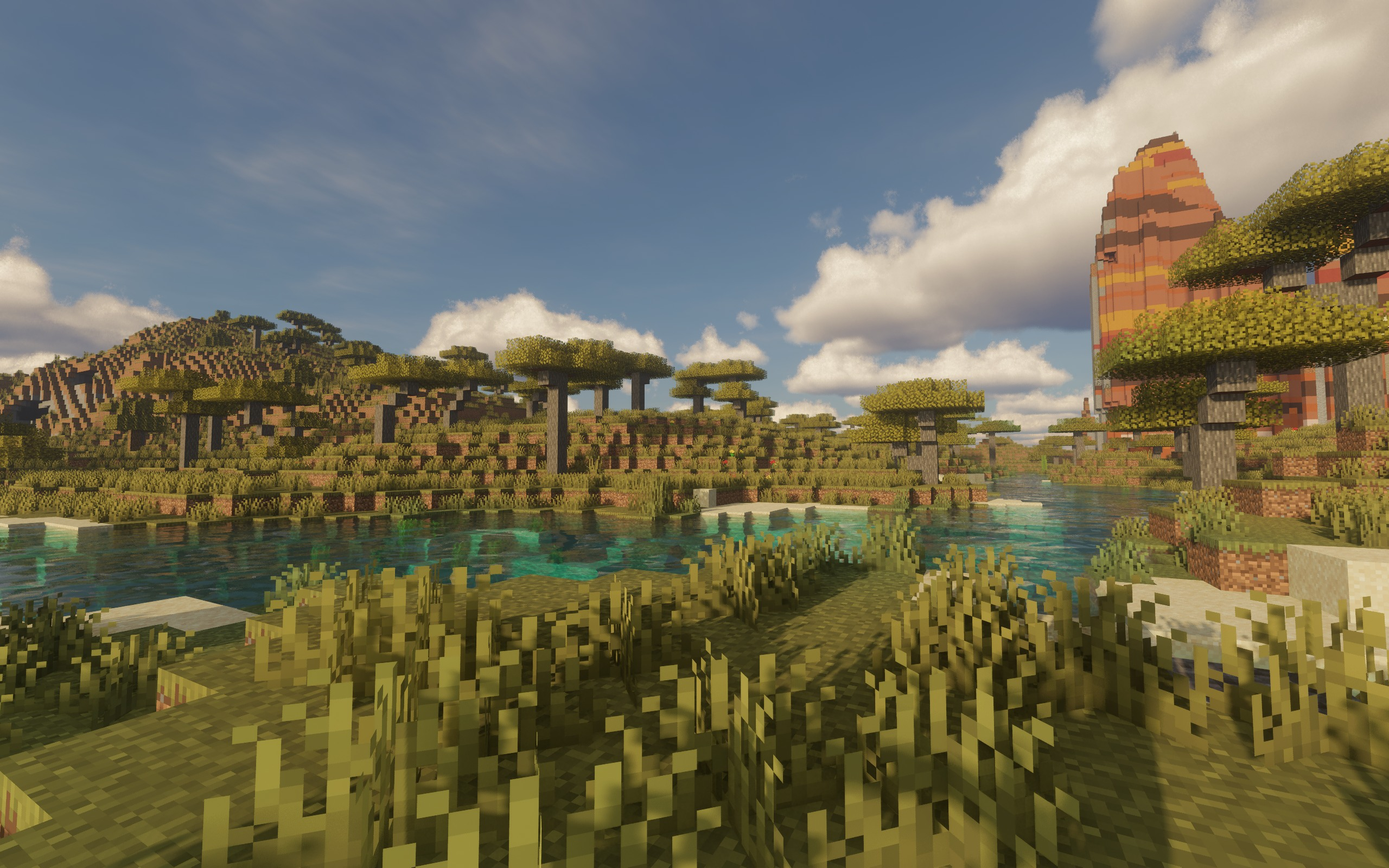
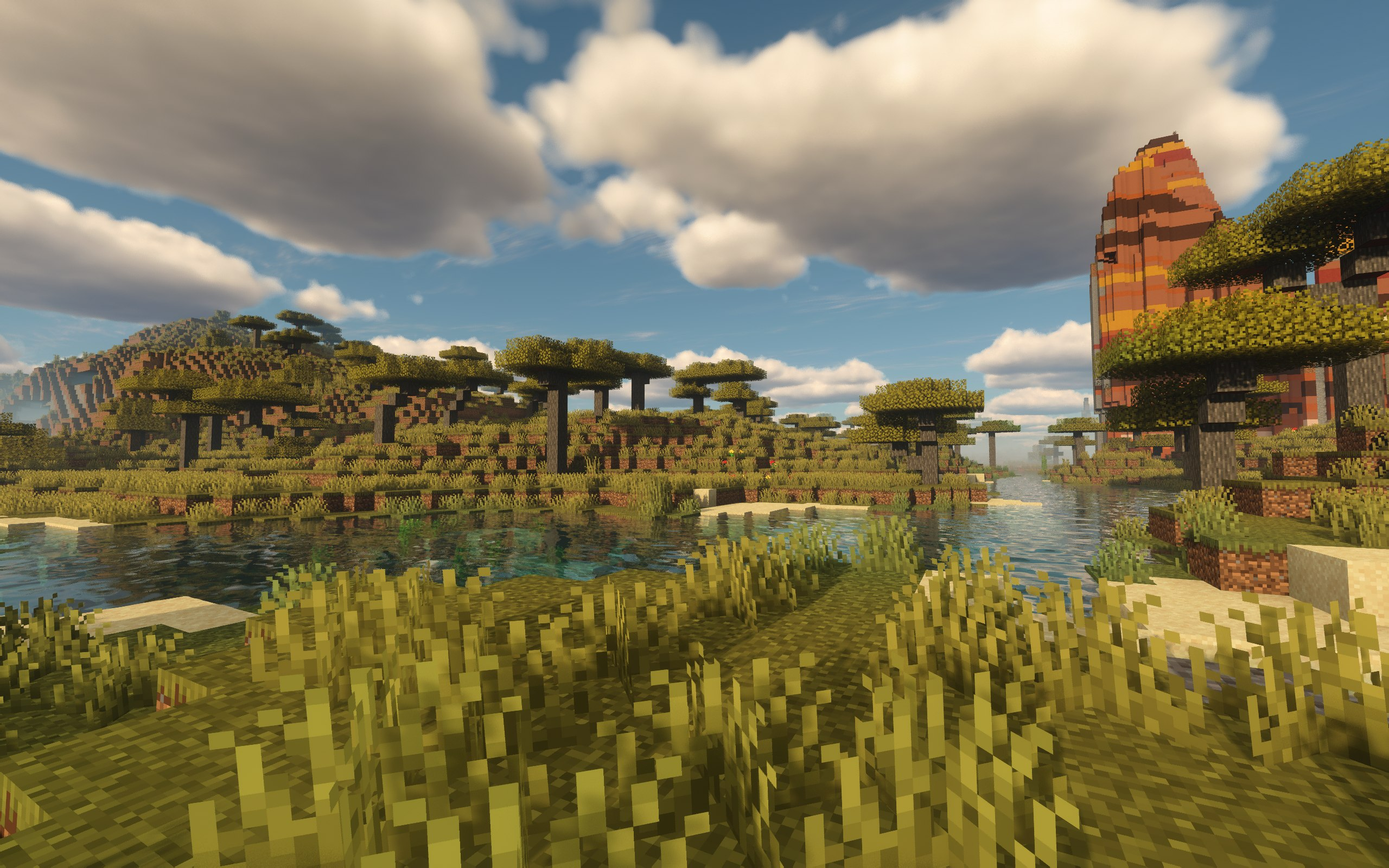
docs(readme): retake the three release screenshots for V0.4.0

diff --git a/README.md b/README.md
@@ -16,7 +16,7 @@ defects, incomplete settings, and breaking changes between versions.
 
 ![Savanna landscape with volumetric clouds, clear water, and soft daylight](screenshots/scene1-sky.jpg)
 
-![Underwater scene from an earlier development build](screenshots/scene3-water.jpg)
+![Underwater seabed with caustics, underwater fog, and sun shafts](screenshots/scene3-water.jpg)
 
 ![Layered volumetric clouds and atmospheric sky](screenshots/scene4-clouds.jpg)
 
